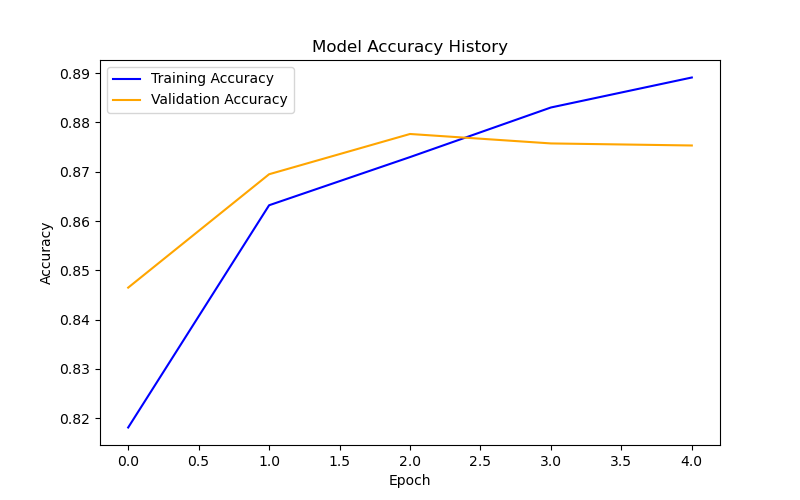
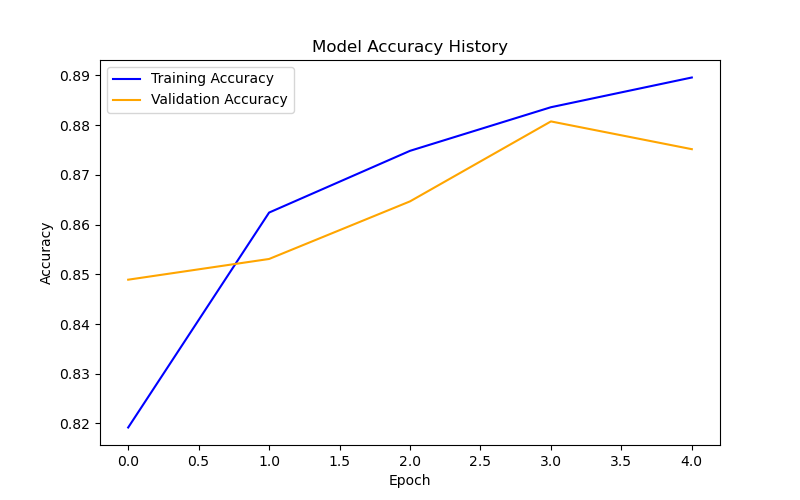
day10 work

diff --git a/Day10/practice_tasks/practice2.py b/Day10/practice_tasks/practice2.py
@@ -13,7 +13,7 @@ model =Sequential()
 model.add(Input(shape=(4,)))
 
 #hidden layer
-model.add(Dense(units=50,activation='relu', name='Hidden_Layer'))
+model.add(Dense(units=16,activation='relu', name='Hidden_Layer'))
 
 #output layer
 model.add(Dense(units=1,activation='sigmoid', name='Output_Layer'))

diff --git a/Day10/readme.md b/Day10/readme.md
@@ -1,0 +1,26 @@
+# Day 10 Mini Project: My First Artificial Neural Network (ANN)
+
+## 🧠 Theoretical Fundamentals
+
+### What is Deep Learning?
+Deep Learning is a branch of Machine Learning inspired by the structure of the human brain. It uses layered networks to automatically discover patterns in data without humans needing to clean or extract features manually.
+
+### Machine Learning vs. Deep Learning
+* **Machine Learning**: Works best on smaller datasets. It requires humans to manually select and engineer features from the data.
+* **Deep Learning**: Scales incredibly well with massive datasets. It automatically learns features using stacked layers of computational neurons.
+
+### What is a Perceptron?
+A Perceptron is the basic building block of a neural network. It takes numeric inputs, multiplies them by weight adjustments, adds an offset value called a bias, and runs the total through an activation function to generate an output.
+
+### Activation Functions Explored
+* **ReLU**: Turns negative numbers into 0 and keeps positive numbers exactly as they are. It is the default filter used in hidden layers to speed up calculation training.
+* **Sigmoid**: Squeezes numbers into a true percentage probability between 0 and 1. It is used in 1-neuron output layers for simple Yes/No questions.
+* **Tanh**: Compresses numbers symmetrically between -1 and 1. It is used in internal layers that require zero-centered data scaling.
+* **Softmax**: Distributes percentages across multiple categories so the total sum adds up to exactly 100%. It is the standard filter used for multi-class classification tasks.
+
+## 📊 Project Outcomes & Model Performance
+* **Dataset Used**: Fashion MNIST (60,000 training images, 10,000 testing images of clothing items).
+* **Network Design**: A Sequential framework flattening a 28x28 image grid (784 inputs) through a 128-neuron ReLU hidden layer down to a 10-neuron Softmax classification output layer.
+* **Final Performance Metrics**:
+  * **Final Training Accuracy**: ~88.9%
+  * **Final Testing Accuracy**: ~87.3%